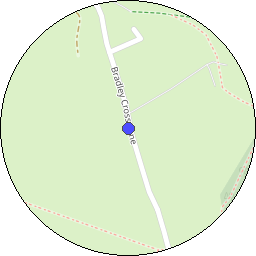
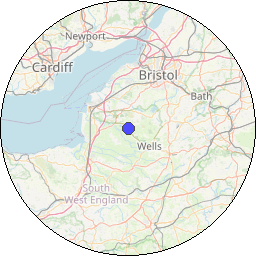
zooming

diff --git a/docs/xml/examples/05-moving-map/README.md b/docs/xml/examples/05-moving-map/README.md
@@ -87,7 +87,7 @@ Corners can be rounded with `corner_radius`.
 
 
 ```xml
-<component type="moving_map" size="256" corner_radius="40" />
+<component type="moving_map" size="256" corner_radius="40" zoom="7"/>
 ```
 <kbd>![05-moving-map-7.png](05-moving-map-7.png)</kbd>
 
@@ -96,7 +96,7 @@ if `corner_radius` == half the width (ie. the radius) then the corners will be s
 
 
 ```xml
-<component type="moving_map" size="256" corner_radius="128" />
+<component type="moving_map" size="256" corner_radius="128" zoom="8" />
 ```
 <kbd>![05-moving-map-8.png](05-moving-map-8.png)</kbd>
 
@@ -111,7 +111,7 @@ It is possible to have multiple moving maps, though
 
 ```xml
 <component type="moving_map" size="128" zoom="4" /> 
-<component type="moving_map" x="64" y="64" size="128" corner_radius="64" zoom="16"/>
+<component type="moving_map" x="64" y="64" size="128" corner_radius="64" zoom="7"/>
 ```
 <kbd>![05-moving-map-9.png](05-moving-map-9.png)</kbd>
 

diff --git a/build-scripts/examples/05-moving-map.md b/build-scripts/examples/05-moving-map.md
@@ -46,11 +46,11 @@ The gopro video will be visible through the component, if it is not completely o
 
 Corners can be rounded with `corner_radius`.
 
-{{ <component type="moving_map" size="256" corner_radius="40" /> }}
+{{ <component type="moving_map" size="256" corner_radius="40" zoom="7"/> }}
 
 if `corner_radius` == half the width (ie. the radius) then the corners will be so rounded that the map becomes a circle
 
-{{ <component type="moving_map" size="256" corner_radius="128" /> }}
+{{ <component type="moving_map" size="256" corner_radius="128" zoom="8" /> }}
 
 ## Map Provider & Styles
 
@@ -61,7 +61,7 @@ It is possible to have multiple moving maps, though
 
 {{ 
 <component type="moving_map" size="128" zoom="4" /> 
-<component type="moving_map" x="64" y="64" size="128" corner_radius="64" zoom="16"/>
+<component type="moving_map" x="64" y="64" size="128" corner_radius="64" zoom="7"/>
 }}
 
 ## Copyright
